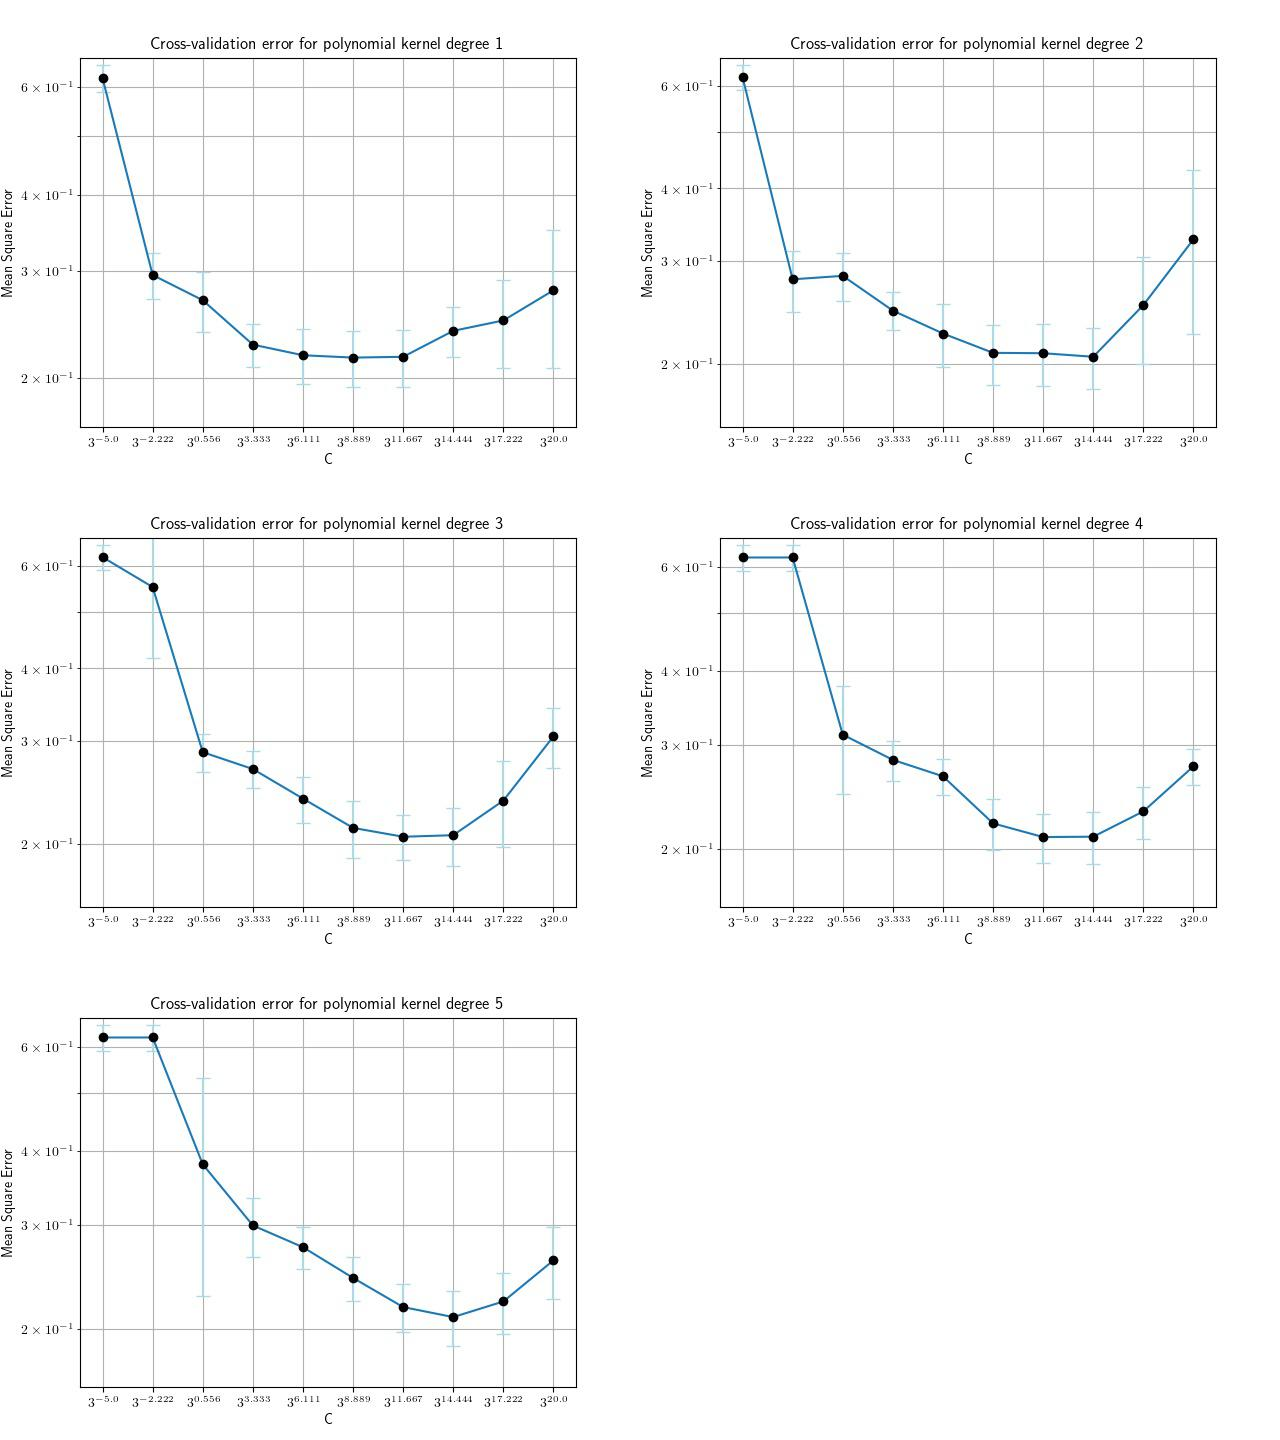
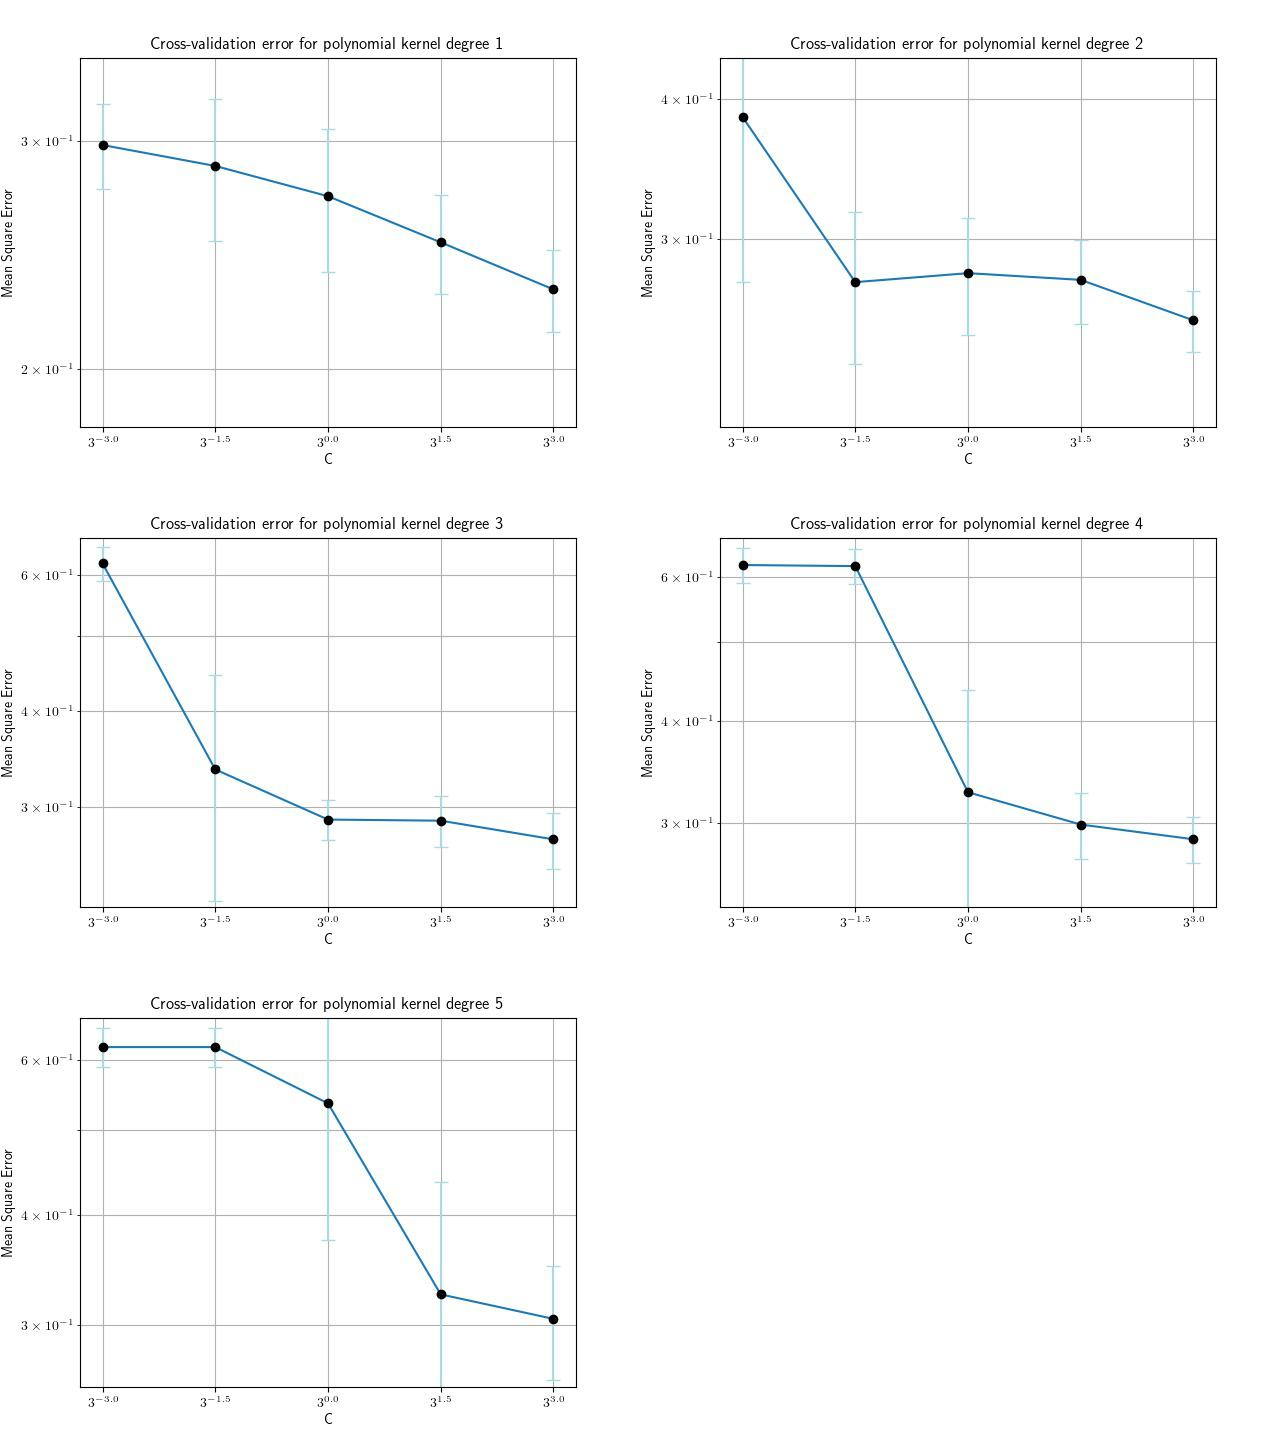
add more fig

diff --git a/main.py b/main.py
@@ -18,7 +18,7 @@ args = parser.parse_args()
 def question3(train, test):
   #global c_range
   c_range = np.linspace(-5, 20, 10)
-  c_range = np.linspace(-3, 3, 5)
+  c_range = np.linspace(-5, 5, 5)
   #c_range = np.linspace(-5, 5, 2)
   C = 3** c_range
   
